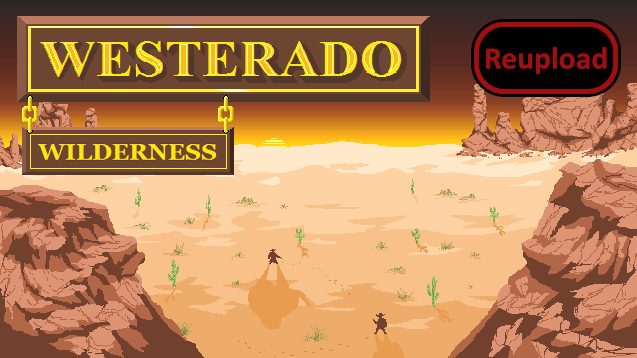
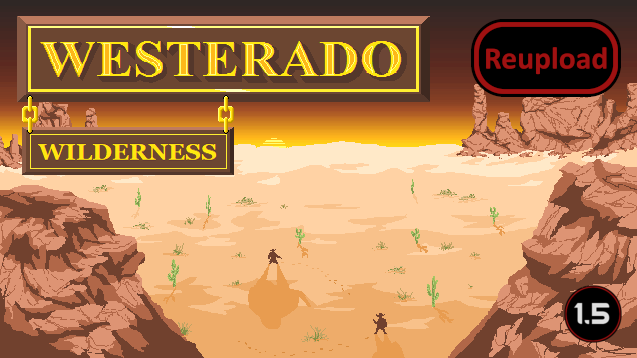
Mod updated for 1.5 and passed autotests

Changed region(s): [[0.865, 0.7989, 0.9843, 0.9832]]

diff --git a/README.md b/README.md
@@ -93,12 +93,13 @@ All original content (e.g. text, imagery, sounds) in this mod is licensed under 
 
 -  See if the the error persists if you just have this mod and its requirements active.
 -  If not, try adding your other mods until it happens again.
--  Post your error-log using https://steamcommunity.com/workshop/filedetails/?id=818773962]HugsLib and command Ctrl+F12
+-  Post your error-log using https://steamcommunity.com/workshop/filedetails/?id=818773962]HugsLib or the standalone https://steamcommunity.com/sharedfiles/filedetails/?id=2873415404]Uploader and command Ctrl+F12
 -  For best support, please use the Discord-channel for error-reporting.
 -  Do not report errors by making a discussion-thread, I get no notification of that.
 -  If you have the solution for a problem, please post it to the GitHub repository.
+-  Use https://github.com/RimSort/RimSort/releases/latest]RimSort to sort your mods
 
 
 
+https://steamcommunity.com/sharedfiles/filedetails/changelog/2237006050]![Image](https://img.shields.io/github/v/release/emipa606/WesteradoWilderness?label=latest%20version&style=plastic&color=9f1111&labelColor=black)
 
-https://steamcommunity.com/sharedfiles/filedetails/changelog/2237006050]Last updated 2022-12-27
